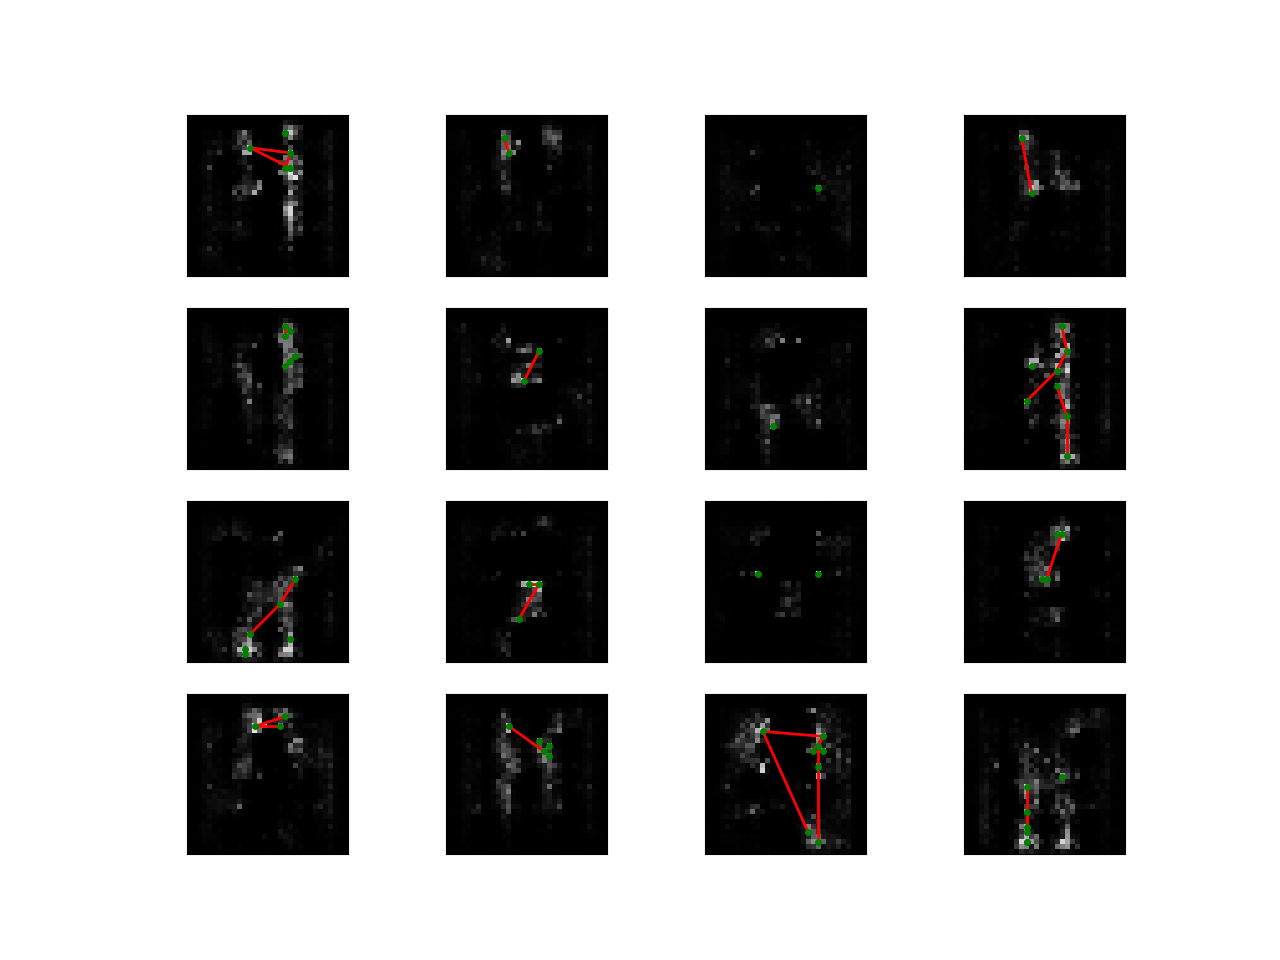
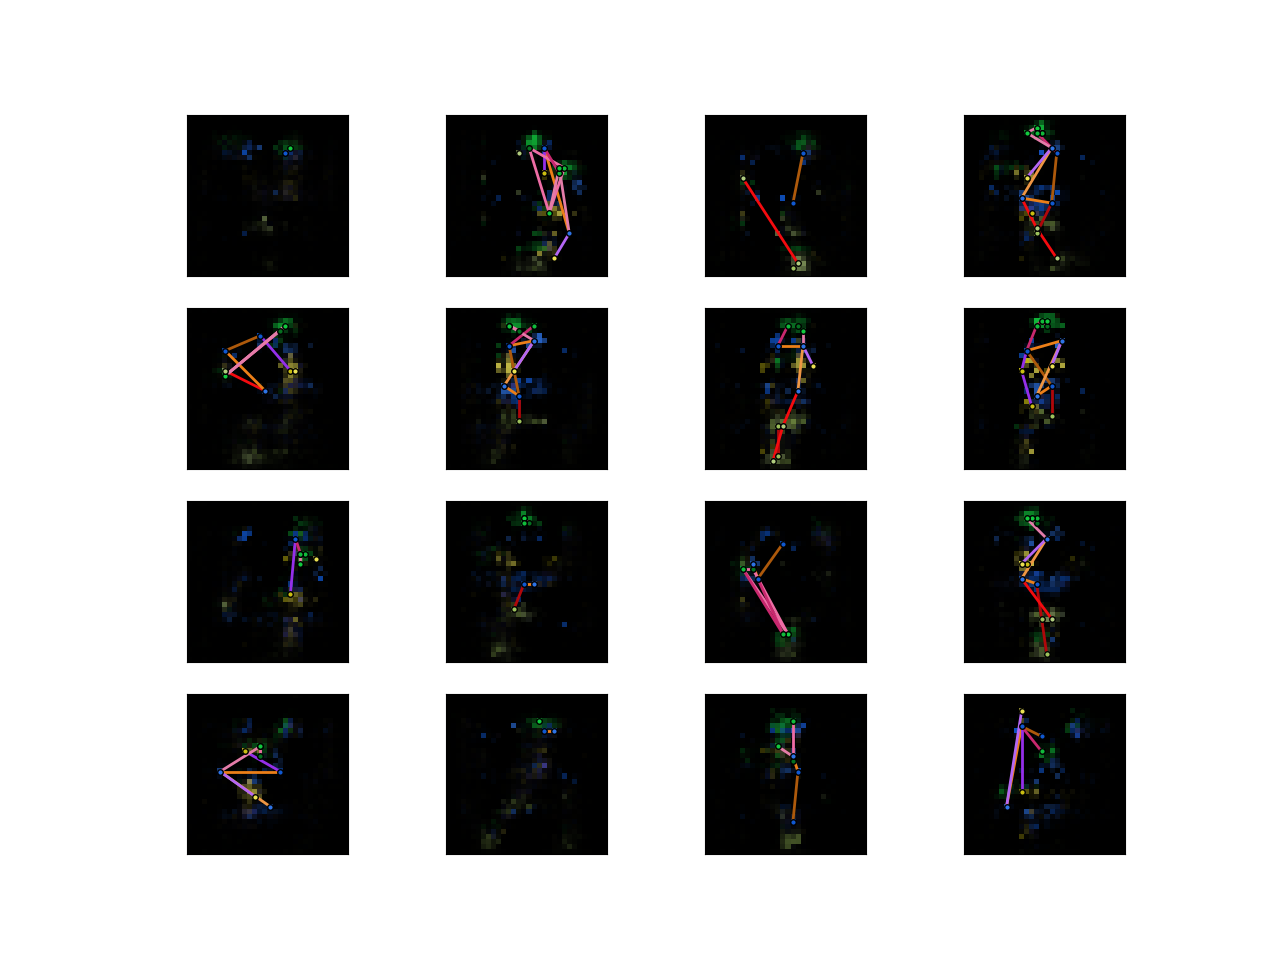
twenty-second commit
update training results. now plot colored heatmaps.

diff --git a/model.py b/model.py
@@ -4,6 +4,7 @@ import torch.utils.data
 import numpy as np
 import random
 import matplotlib.pyplot as plt
+import matplotlib.colors
 from skimage import io
 from math import sin, cos, pi
 
@@ -14,6 +15,11 @@ caption_path = '/media/data/yzhang2/coco/train/coco/annotations/captions_train20
 keypoint_path = '/media/data/yzhang2/coco/train/coco/annotations/person_keypoints_train2017.json'
 text_model_path = '/media/data/yzhang2/wiki.en/wiki.en.bin'
 total_keypoints = 17
+keypoint_colors = ['#057020', '#11bb3b', '#12ca3e', '#11bb3b', '#12ca3e', '#1058d1', '#2e73e5', '#cabe12', '#eae053',
+                   '#cabe12', '#eae053', '#1058d1', '#2e73e5', '#9dc15c', '#b1cd7e', '#9dc15c', '#b1cd7e']
+skeleton_colors = ['#b0070a', '#b0070a', '#f40b0f', '#f40b0f', '#ec7f18', '#ad590b', '#ef9643', '#ec7f18', '#952fe9',
+                   '#b467f4', '#952fe9', '#b467f4', '#ee6da5', '#ee6da5', '#ee6da5', '#c8286e', '#e47ca9', '#c8286e',
+                   '#e47ca9']
 
 # ground truth size in heatmap
 sigma = 1
@@ -121,35 +127,49 @@ def plot_heatmap(heatmap, skeleton=None, image_path=None, caption=None):
     keypoint[0] = np.argmax(np.amax(heatmap, axis=1), axis=1)
     keypoint[1] = np.argmax(np.amax(heatmap, axis=2), axis=1)
 
+    skeleton_colors_show = []
+
     # option to plot skeleton
     if skeleton is not None:
-        for line in skeleton:
+        for i, line in enumerate(skeleton, 0):
             if (heatmap[(line,) + tuple(keypoint[::-1, line])] > heatmap_threshold).all():
                 # keypoint is located in the maximum of the heatmap
                 x_skeleton = np.hstack((x_skeleton, keypoint[0:1, line].transpose()))
                 y_skeleton = np.hstack((y_skeleton, keypoint[1:2, line].transpose()))
+                skeleton_colors_show.append(skeleton_colors[i])
 
-    keypoint = keypoint[:, heatmap_max > heatmap_threshold]
+    keypoint_show = np.arange(total_keypoints)[heatmap_max > heatmap_threshold]
 
     # get a heatmap in single image
-    heatmap = np.amax(heatmap, axis=0)
+    heatmap_color = np.empty((total_keypoints, heatmap_size, heatmap_size, 3), dtype='float32')
+    for i in range(total_keypoints):
+        heatmap_color[i] = np.tile(np.array(matplotlib.colors.to_rgb(keypoint_colors[i])),
+                                   (heatmap_size, heatmap_size, 1))
+        heatmap_color[i, :, :, 0] = heatmap_color[i, :, :, 0] * heatmap[i]
+        heatmap_color[i, :, :, 1] = heatmap_color[i, :, :, 1] * heatmap[i]
+        heatmap_color[i, :, :, 2] = heatmap_color[i, :, :, 2] * heatmap[i]
+    heatmap_color = np.amax(heatmap_color, axis=0)
 
     # plot the heatmap in black-white and the optional training image
     if image_path is not None:
         image = io.imread(image_path)
         plt.subplot(1, 2, 1)
-        plt.imshow(heatmap, 'gray', vmin=0.0, vmax=1.0)
-        plt.plot(x_skeleton, y_skeleton, 'red', linewidth=2)
-        plt.plot(keypoint[0], keypoint[1], 'og', markersize=4)
+        plt.imshow(heatmap_color)
+        [plt.plot(x_skeleton[:, i], y_skeleton[:, i], c=skeleton_colors_show[i], linewidth=2) for i in
+         range(len(skeleton_colors_show))]
+        [plt.plot(keypoint[0, i], keypoint[1, i], 'o', c=keypoint_colors[i], markersize=4, markeredgecolor='k',
+                  markeredgewidth=1) for i in keypoint_show]
         plt.title('stacked heatmaps' + (' and skeleton' if skeleton is not None else ''))
         plt.xlabel(caption)
         plt.subplot(1, 2, 2)
         plt.imshow(image)
         plt.title('training image')
     else:
-        plt.imshow(heatmap, 'gray', vmin=0.0, vmax=1.0)
-        plt.plot(x_skeleton, y_skeleton, 'red', linewidth=2)
-        plt.plot(keypoint[0], keypoint[1], 'og', markersize=4)
+        plt.imshow(heatmap_color)
+        [plt.plot(x_skeleton[:, i], y_skeleton[:, i], c=skeleton_colors_show[i], linewidth=2) for i in
+         range(len(skeleton_colors_show))]
+        [plt.plot(keypoint[0, i], keypoint[1, i], 'o', c=keypoint_colors[i], markersize=4, markeredgecolor='k',
+                  markeredgewidth=1) for i in keypoint_show]
         plt.title('stacked heatmaps' + (' and skeleton' if skeleton is not None else ''))
         plt.xlabel(caption)
 

diff --git a/train.py b/train.py
@@ -6,7 +6,7 @@ from datetime import datetime
 from torch.utils.tensorboard import SummaryWriter
 from torch.autograd import grad
 
-workers = 4
+workers = 8
 device = torch.device('cuda:0' if torch.cuda.is_available() else 'cpu')
 
 # training parameters
@@ -17,7 +17,7 @@ rate_decay_g = 1
 rate_decay_d = 1
 rate_step_g = 4
 rate_step_d = 4
-epoch = 10
+epoch = 100
 
 # penalty coefficient
 lamb = 10
@@ -35,6 +35,20 @@ coco_keypoint = COCO(keypoint_path)
 
 # keypoint connections (skeleton) from annotation file
 skeleton = np.array(coco_keypoint.loadCats(coco_keypoint.getCatIds())[0].get('skeleton'), dtype='int32') - 1
+
+# plot the reference heatmap
+x = np.array([0.5, 0.55, 0.45, 0.6, 0.4, 0.6, 0.4, 0.7, 0.3, 0.8, 0.2, 0.6, 0.4, 0.6, 0.4, 0.6, 0.4]) * heatmap_size
+y = np.array([0.25, 0.2, 0.2, 0.2, 0.2, 0.3, 0.3, 0.3, 0.3, 0.3, 0.3, 0.6, 0.6, 0.7, 0.7, 0.8, 0.8]) * heatmap_size
+reference_heatmap = np.empty((total_keypoints, heatmap_size, heatmap_size), dtype='float32')
+for i in range(total_keypoints):
+    reference_heatmap[i] = np.exp(-((x_grid - x[i]) ** 2 + (y_grid - y[i]) ** 2) / sigma ** 2, dtype='float32')
+plt.figure()
+plot_heatmap(reference_heatmap, skeleton)
+plt.title(None)
+plt.xticks([])
+plt.yticks([])
+plt.savefig('reference_heatmap' + '.png')
+plt.close()
 
 # load text encoding model
 # text_model = fastText.load_model(text_model_path)

diff --git a/test.py b/test.py
@@ -18,7 +18,7 @@ skeleton = np.array(coco_keypoint.loadCats(coco_keypoint.getCatIds())[0]['skelet
 # get single-person image dataset
 dataset = HeatmapDataset(coco_keypoint, coco_caption)
 
-epoch = 6
+epoch = 100
 
 # try the GAN
 gan = GAN(generator_path + '_' + f'{epoch:03d}', discriminator_path + '_' + f'{epoch:03d}', device)
